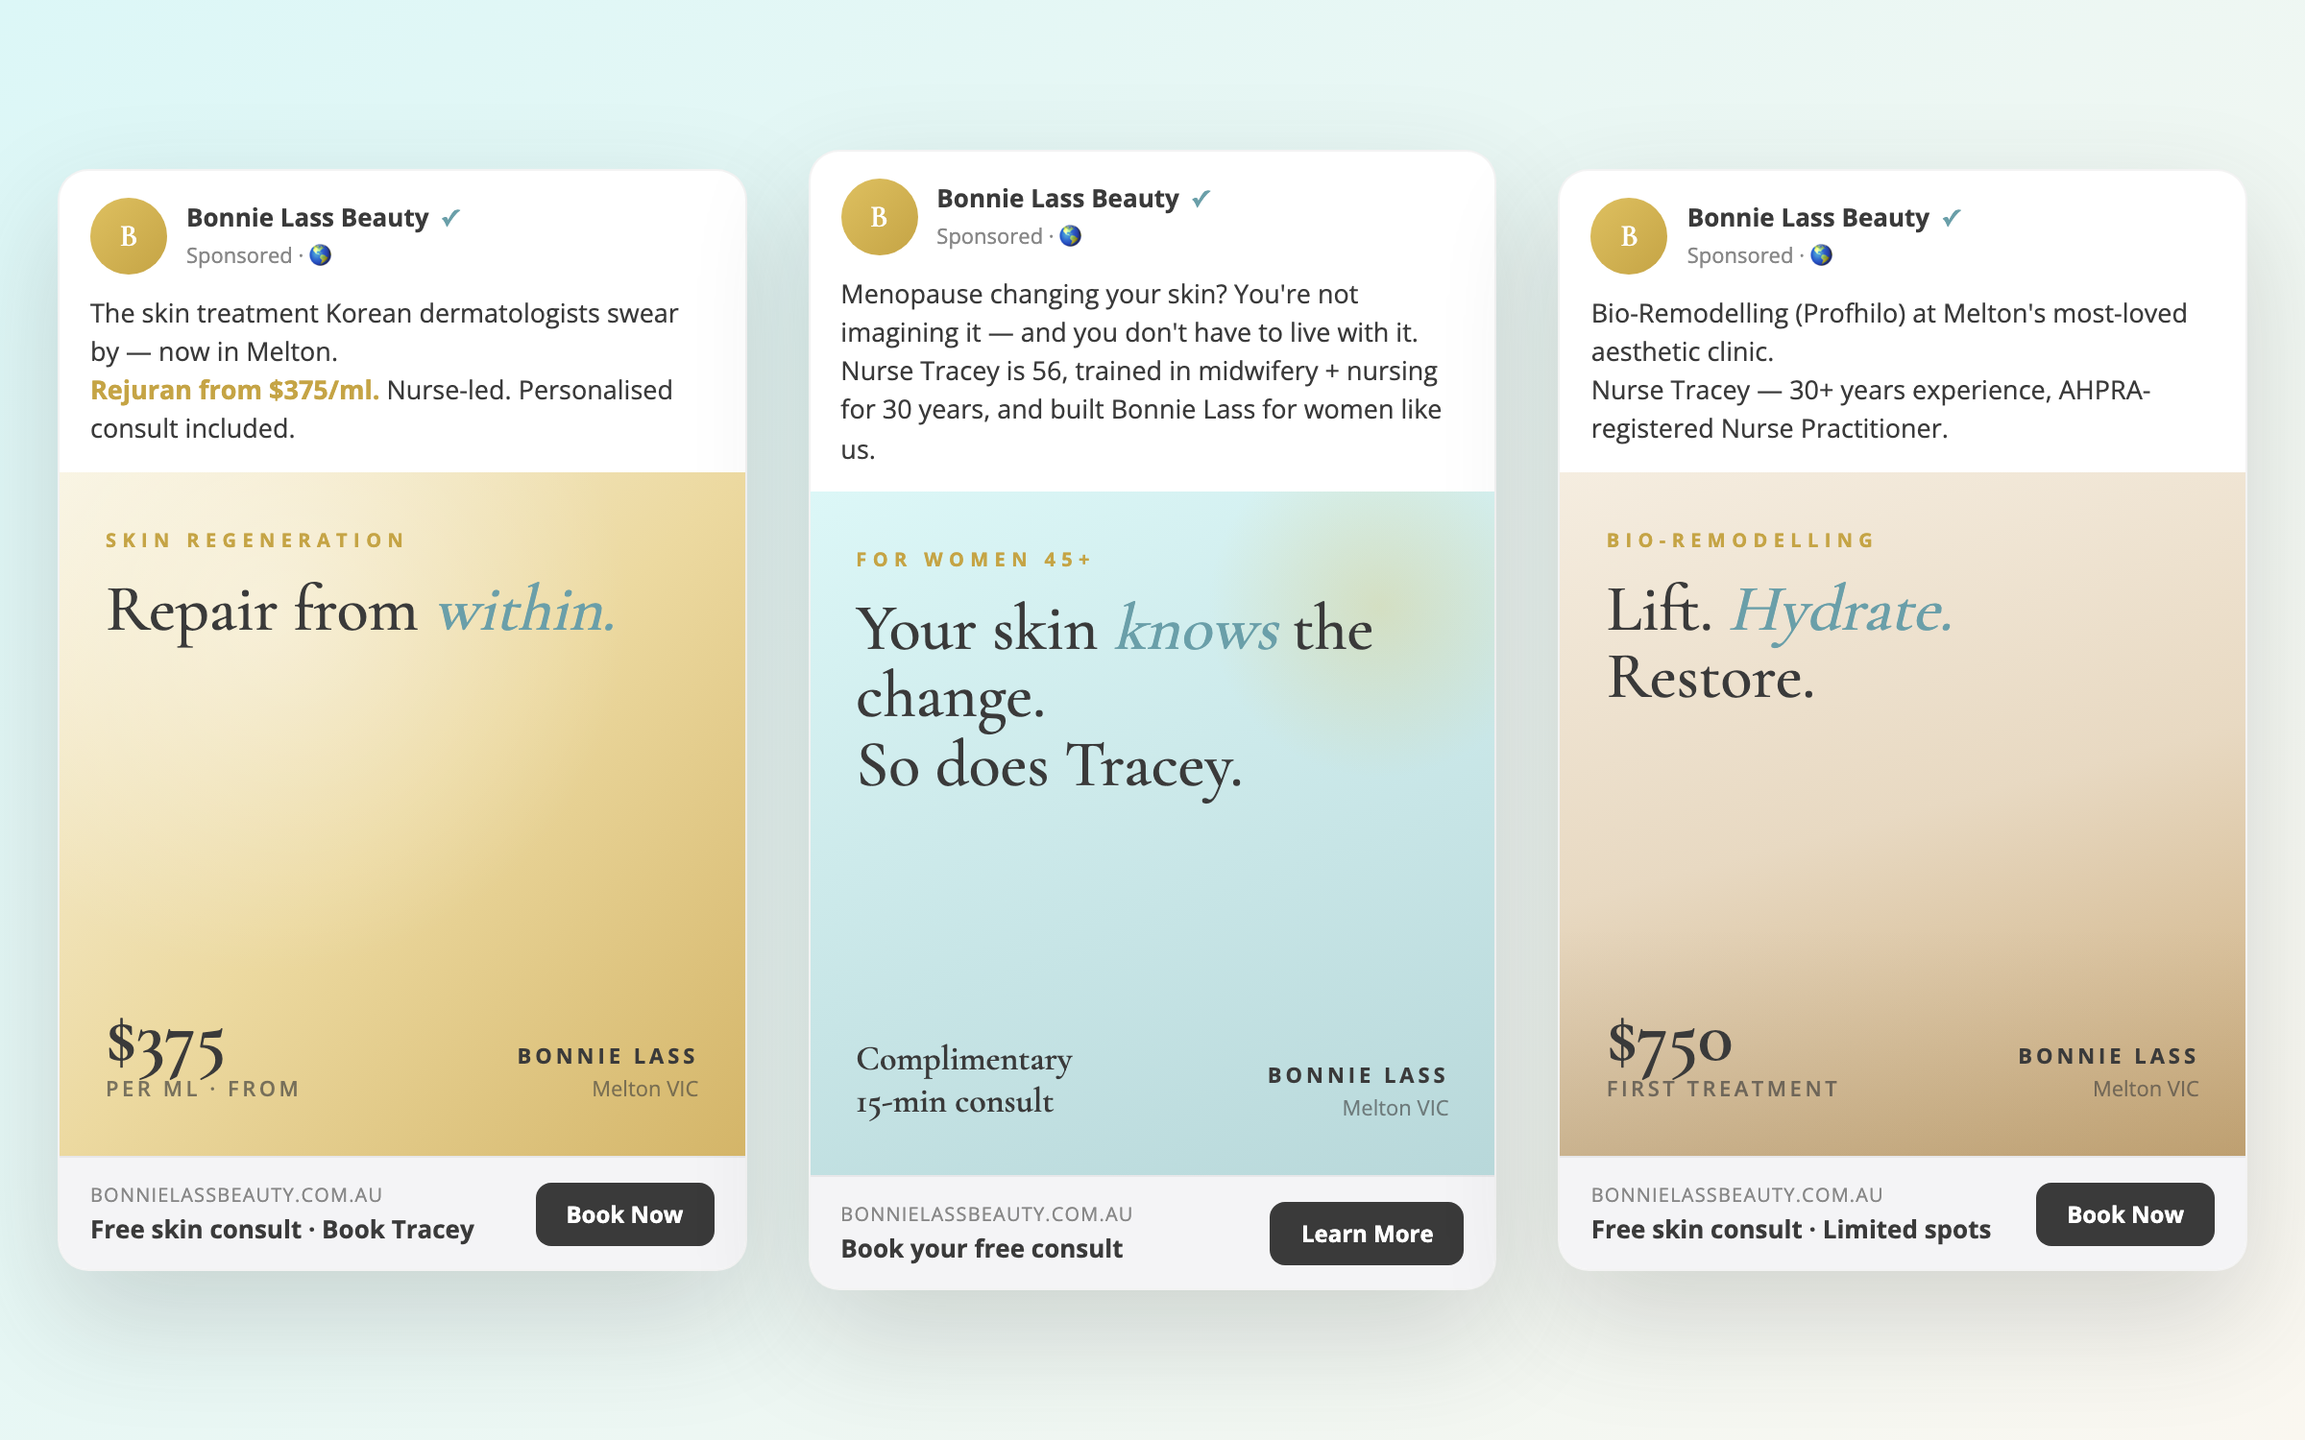
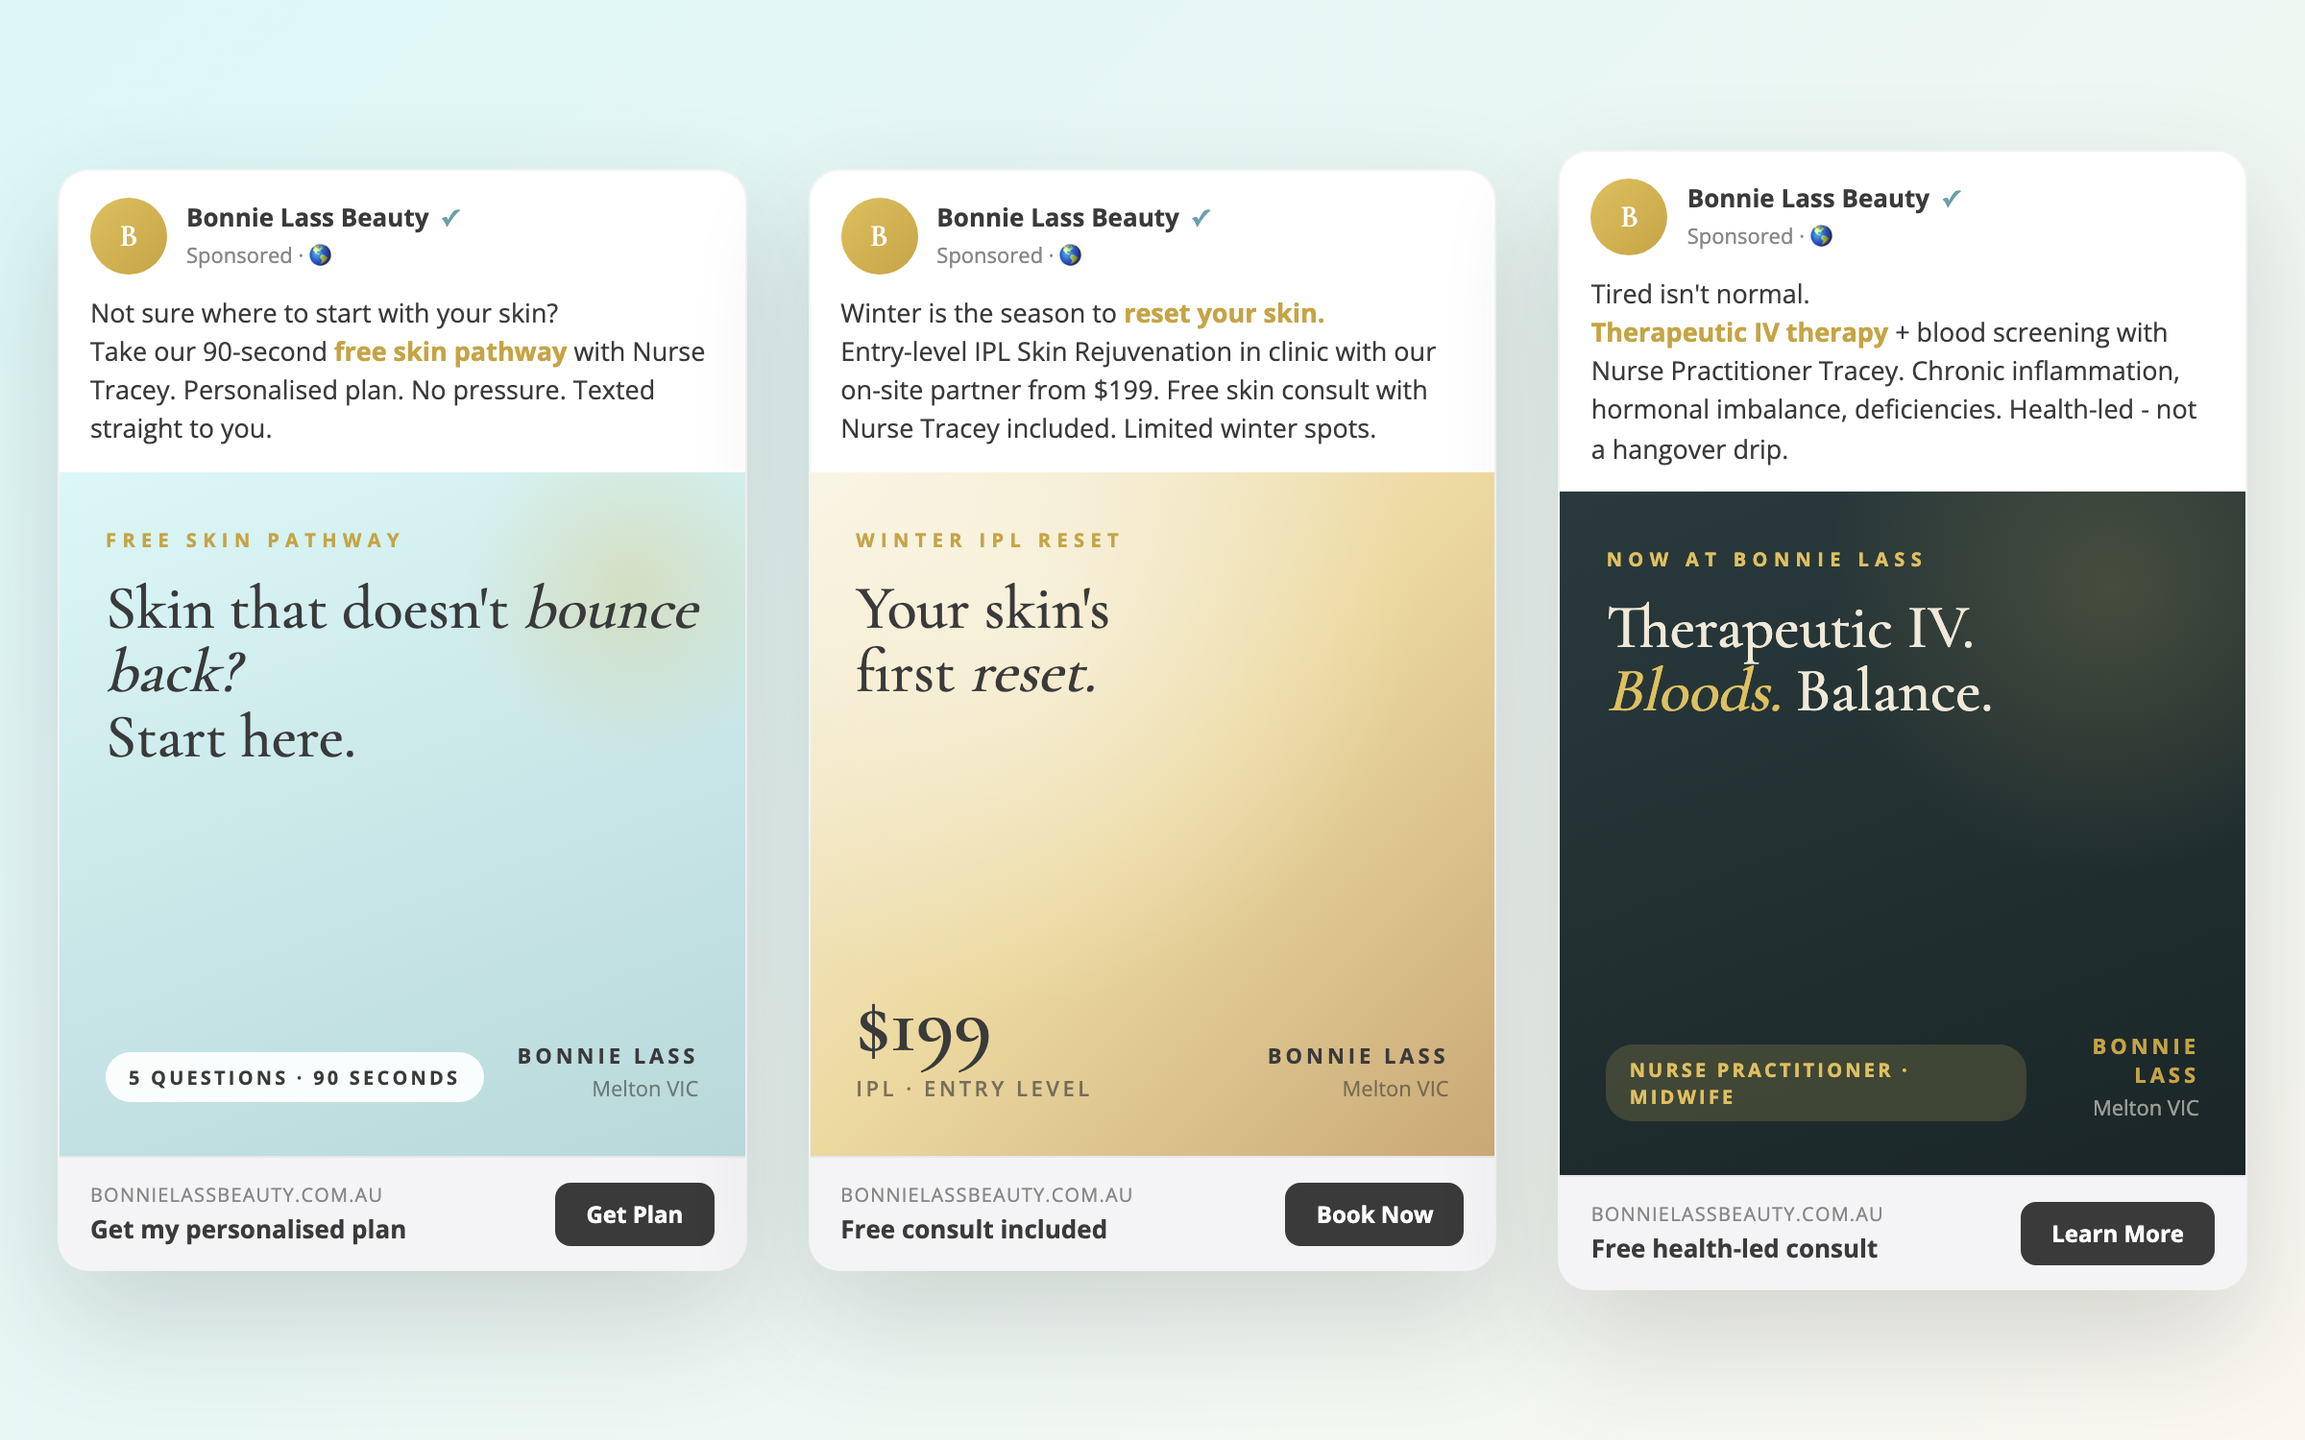
Update ads + lead gen slide to match Kelly's actual pitch: Tier 1 skin pathway, Tier 2 $199 IPL winter, Tier 3 IV therapy. Remove Option 1 pricing slides.

diff --git a/index.html b/index.html
@@ -180,24 +180,24 @@ p { font-size:0.9rem; color:var(--text-mid); font-weight:300; line-height:1.8; }
         <div class="quote"><p>"We're not even marketing. We're not even advertising."</p></div>
         <div style="display:grid; gap:0.6rem;">
           <div style="display:flex; align-items:baseline; gap:0.6rem;">
-            <span style="color:var(--peach); font-family:'Montserrat',sans-serif; font-weight:700; font-size:0.75rem; min-width:110px; flex-shrink:0;">Rejuran</span>
-            <span style="font-size:0.8rem; color:var(--text-mid);">Premium skin regeneration <span style="color:var(--teal-bright); font-weight:600;">education-first campaign</span><br>Explain the science, build trust, then book</span>
+            <span style="color:var(--peach); font-family:'Montserrat',sans-serif; font-weight:700; font-size:0.75rem; min-width:110px; flex-shrink:0;">Tier 1</span>
+            <span style="font-size:0.8rem; color:var(--text-mid);">Free <span style="color:var(--teal-bright); font-weight:600;">Skin Pathway</span> - 90-sec assessment<br>Captures lead, personalised plan, drives to consult, into nurture if not booked</span>
           </div>
           <div style="display:flex; align-items:baseline; gap:0.6rem;">
-            <span style="color:var(--peach); font-family:'Montserrat',sans-serif; font-weight:700; font-size:0.75rem; min-width:110px; flex-shrink:0;">Anti-Wrinkle</span>
-            <span style="font-size:0.8rem; color:var(--text-mid);">Winter is the perfect time <span style="color:var(--teal-bright); font-weight:600;">seasonal campaign</span><br>Target 35-55 women in Melton and surrounds</span>
+            <span style="color:var(--peach); font-family:'Montserrat',sans-serif; font-weight:700; font-size:0.75rem; min-width:110px; flex-shrink:0;">Tier 2</span>
+            <span style="font-size:0.8rem; color:var(--text-mid);">Winter Skin Reset <span style="color:var(--teal-bright); font-weight:600;">$199 IPL</span> entry-level<br>Seasonal campaign via on-site partner. Free consult with Tracey included</span>
           </div>
           <div style="display:flex; align-items:baseline; gap:0.6rem;">
-            <span style="color:var(--peach); font-family:'Montserrat',sans-serif; font-weight:700; font-size:0.75rem; min-width:110px; flex-shrink:0;">Skin Needling</span>
-            <span style="font-size:0.8rem; color:var(--text-mid);">Gateway treatment at <span style="color:var(--teal-bright); font-weight:600;">$245</span><br>Low barrier entry, upsell to skin booster combo at $395</span>
+            <span style="color:var(--peach); font-family:'Montserrat',sans-serif; font-weight:700; font-size:0.75rem; min-width:110px; flex-shrink:0;">Tier 3</span>
+            <span style="font-size:0.8rem; color:var(--text-mid);">IV Therapy &middot; Therapeutic Health <span style="color:var(--teal-bright); font-weight:600;">NEW</span><br>Blood screening, chronic inflammation, hormonal balance - Nurse Practitioner + Midwife led</span>
           </div>
           <div style="display:flex; align-items:baseline; gap:0.6rem;">
-            <span style="color:var(--peach); font-family:'Montserrat',sans-serif; font-weight:700; font-size:0.75rem; min-width:110px; flex-shrink:0;">PRP</span>
-            <span style="font-size:0.8rem; color:var(--text-mid);">Natural rejuvenation angle <span style="color:var(--teal-bright); font-weight:600;">using your own blood</span><br>Appeals to the "no filler" audience</span>
+            <span style="color:var(--peach); font-family:'Montserrat',sans-serif; font-weight:700; font-size:0.75rem; min-width:110px; flex-shrink:0;">Education</span>
+            <span style="font-size:0.8rem; color:var(--text-mid);">Premium skin regeneration <span style="color:var(--teal-bright); font-weight:600;">education-first</span><br>Explain the science, build trust, then book - winter is the season to be out of the sun</span>
           </div>
           <div style="display:flex; align-items:baseline; gap:0.6rem;">
             <span style="color:var(--peach); font-family:'Montserrat',sans-serif; font-weight:700; font-size:0.75rem; min-width:110px; flex-shrink:0;">Remarketing</span>
-            <span style="font-size:0.8rem; color:var(--text-mid);">To a free consultation - leading with your<br>30 years of clinical experience and trust</span>
+            <span style="font-size:0.8rem; color:var(--text-mid);">SMS campaigns to dropped clients, birthday <span style="color:var(--teal-bright); font-weight:600;">SMS</span> + database reactivation<br>Plus authority positioning - Tracey's 30 years, Nurse Practitioner, Midwife</span>
           </div>
         </div>
       </div>
@@ -457,88 +457,6 @@ p { font-size:0.9rem; color:var(--text-mid); font-weight:300; line-height:1.8; }
   </div>
 </section>
 
-<!-- ========== 16. FULL PACKAGE ========== -->
-<section class="slide slide-html alt">
-  <div class="dot-overlay"></div>
-  <div class="glow glow-tl"></div>
-  <div class="inner">
-    <div style="text-align:center; margin-bottom:1.5rem;">
-      <p class="label label-peach">Option One</p>
-      <h2>We Do It <span class="teal">For You</span></h2>
-      <p style="max-width:550px; margin:0 auto;">No hidden extras. No nickel-and-diming. This is what you get every single week.</p>
-    </div>
-    <div style="display:grid; grid-template-columns:1fr 1fr; gap:0.5rem 2rem; max-width:900px; margin:0 auto;">
-      <div style="display:flex; justify-content:space-between; align-items:center; padding:0.6rem 1rem; border-bottom:1px solid rgba(255,255,255,0.06);">
-        <span style="font-size:0.82rem; color:var(--text-mid); display:flex; align-items:center; gap:0.5rem;"><span style="color:var(--teal-bright);">&#10003;</span> Meta Ads strategy, creative & management</span>
-        <span style="font-family:'Montserrat',sans-serif; font-size:0.75rem; font-weight:700; color:var(--text-faint);">$350/wk</span>
-      </div>
-      <div style="display:flex; justify-content:space-between; align-items:center; padding:0.6rem 1rem; border-bottom:1px solid rgba(255,255,255,0.06);">
-        <span style="font-size:0.82rem; color:var(--text-mid); display:flex; align-items:center; gap:0.5rem;"><span style="color:var(--teal-bright);">&#10003;</span> Ad creative & video content</span>
-        <span style="font-family:'Montserrat',sans-serif; font-size:0.75rem; font-weight:700; color:var(--text-faint);">$300/wk</span>
-      </div>
-      <div style="display:flex; justify-content:space-between; align-items:center; padding:0.6rem 1rem; border-bottom:1px solid rgba(255,255,255,0.06);">
-        <span style="font-size:0.82rem; color:var(--text-mid); display:flex; align-items:center; gap:0.5rem;"><span style="color:var(--teal-bright);">&#10003;</span> Lead calling & SMS to close leads</span>
-        <span style="font-family:'Montserrat',sans-serif; font-size:0.75rem; font-weight:700; color:var(--text-faint);">$250/wk</span>
-      </div>
-      <div style="display:flex; justify-content:space-between; align-items:center; padding:0.6rem 1rem; border-bottom:1px solid rgba(255,255,255,0.06);">
-        <span style="font-size:0.82rem; color:var(--text-mid); display:flex; align-items:center; gap:0.5rem;"><span style="color:var(--teal-bright);">&#10003;</span> Bespoke CRM setup & configured</span>
-        <span style="font-family:'Montserrat',sans-serif; font-size:0.75rem; font-weight:700; color:var(--text-faint);">$200/wk</span>
-      </div>
-      <div style="display:flex; justify-content:space-between; align-items:center; padding:0.6rem 1rem; border-bottom:1px solid rgba(255,255,255,0.06);">
-        <span style="font-size:0.82rem; color:var(--text-mid); display:flex; align-items:center; gap:0.5rem;"><span style="color:var(--teal-bright);">&#10003;</span> Automated nurture sequences</span>
-        <span style="font-family:'Montserrat',sans-serif; font-size:0.75rem; font-weight:700; color:var(--text-faint);">$200/wk</span>
-      </div>
-      <div style="display:flex; justify-content:space-between; align-items:center; padding:0.6rem 1rem; border-bottom:1px solid rgba(255,255,255,0.06);">
-        <span style="font-size:0.82rem; color:var(--text-mid); display:flex; align-items:center; gap:0.5rem;"><span style="color:var(--teal-bright);">&#10003;</span> Skin assessment lead capture quiz</span>
-        <span style="font-family:'Montserrat',sans-serif; font-size:0.75rem; font-weight:700; color:var(--text-faint);">$150/wk</span>
-      </div>
-      <div style="display:flex; justify-content:space-between; align-items:center; padding:0.6rem 1rem; border-bottom:1px solid rgba(255,255,255,0.06);">
-        <span style="font-size:0.82rem; color:var(--text-mid); display:flex; align-items:center; gap:0.5rem;"><span style="color:var(--teal-bright);">&#10003;</span> After-hours automation</span>
-        <span style="font-family:'Montserrat',sans-serif; font-size:0.75rem; font-weight:700; color:var(--text-faint);">$150/wk</span>
-      </div>
-      <div style="display:flex; justify-content:space-between; align-items:center; padding:0.6rem 1rem; border-bottom:1px solid rgba(255,255,255,0.06);">
-        <span style="font-size:0.82rem; color:var(--text-mid); display:flex; align-items:center; gap:0.5rem;"><span style="color:var(--teal-bright);">&#10003;</span> Automated review collection</span>
-        <span style="font-family:'Montserrat',sans-serif; font-size:0.75rem; font-weight:700; color:var(--text-faint);">$100/wk</span>
-      </div>
-      <div style="display:flex; justify-content:space-between; align-items:center; padding:0.6rem 1rem; border-bottom:1px solid rgba(255,255,255,0.06);">
-        <span style="font-size:0.82rem; color:var(--text-mid); display:flex; align-items:center; gap:0.5rem;"><span style="color:var(--teal-bright);">&#10003;</span> Local SEO & GEO / AI search</span>
-        <span style="font-family:'Montserrat',sans-serif; font-size:0.75rem; font-weight:700; color:var(--text-faint);">$250/wk</span>
-      </div>
-      <div style="display:flex; justify-content:space-between; align-items:center; padding:0.6rem 1rem; border-bottom:1px solid rgba(255,255,255,0.06);">
-        <span style="font-size:0.82rem; color:var(--text-mid); display:flex; align-items:center; gap:0.5rem;"><span style="color:var(--teal-bright);">&#10003;</span> Reporting dashboard & monthly strategy</span>
-        <span style="font-family:'Montserrat',sans-serif; font-size:0.75rem; font-weight:700; color:var(--text-faint);">$200/wk</span>
-      </div>
-    </div>
-  </div>
-</section>
-
-<!-- ========== 17. OPTION 1 INVESTMENT ========== -->
-<section class="slide slide-html teal-bg">
-  <div class="dot-overlay"></div>
-  <div class="glow glow-center" style="opacity:0.1;"></div>
-  <div class="inner" style="text-align:center;">
-    <p class="label label-peach">Option One - The Investment</p>
-    <h2>All of This. <span class="peach">One Price.</span></h2>
-    <div style="max-width:500px; margin:1.5rem auto 0;">
-      <div style="display:flex; justify-content:space-between; align-items:center; padding:1rem 1.5rem; border-bottom:1px solid rgba(255,255,255,0.1);">
-        <span style="font-family:'Montserrat',sans-serif; font-size:0.85rem; font-weight:700; color:var(--text-mid);">Total weekly value</span>
-        <span style="font-family:'Montserrat',sans-serif; font-size:1.4rem; font-weight:900; color:var(--text-faint); text-decoration:line-through;">$2,500/wk</span>
-      </div>
-      <div style="display:flex; justify-content:space-between; align-items:center; padding:0.8rem 1.5rem; border-bottom:1px solid rgba(255,255,255,0.1);">
-        <span style="font-family:'Montserrat',sans-serif; font-size:0.85rem; font-weight:700; color:var(--text-mid);">Setup & onboarding</span>
-        <span style="font-family:'Montserrat',sans-serif; font-size:1rem; font-weight:700; color:var(--text-faint); text-decoration:line-through;">$4,997</span>
-      </div>
-      <div style="margin-top:2rem; padding:2rem; background:rgba(0,212,188,0.08); border:2px solid var(--teal-bright); border-radius:12px;">
-        <p style="font-family:'Montserrat',sans-serif; font-size:0.7rem; font-weight:700; letter-spacing:0.15em; text-transform:uppercase; color:var(--peach); margin-bottom:0.5rem;">Your Price</p>
-        <div style="font-family:'Montserrat',sans-serif; font-size:clamp(2.5rem,5vw,3.5rem); font-weight:900; color:var(--teal-bright);">$999<span style="font-size:0.4em; color:var(--text-mid); font-weight:600;">/week</span></div>
-        <p style="font-size:0.75rem; color:var(--text-faint); margin-top:0.5rem;">+ ad spend (paid directly to Meta, $30/day minimum)</p>
-        <div style="margin-top:1.2rem; display:inline-block; background:var(--peach); color:var(--dark); font-family:'Montserrat',sans-serif; font-size:0.7rem; font-weight:800; padding:0.4rem 1.2rem; border-radius:4px; text-transform:uppercase; letter-spacing:0.06em;">Setup fee waived - you save $4,997</div>
-      </div>
-      <p style="font-size:0.75rem; color:var(--text-faint); margin-top:1rem;">Month by month. No lock-in. 30 days written notice.</p>
-    </div>
-  </div>
-</section>
-
 <!-- ========== 18. OPTION 2 - WORKSHOP + WEBSITE ========== -->
 <section class="slide slide-html" style="background:radial-gradient(ellipse at center, #0E3D3A 0%, #0A2A28 60%, #071E1C 100%);">
   <div class="dot-overlay"></div>
@@ -546,9 +464,9 @@ p { font-size:0.9rem; color:var(--text-mid); font-weight:300; line-height:1.8; }
   <div class="glow glow-br"></div>
   <div class="inner">
     <div style="text-align:center; margin-bottom:2rem;">
-      <p class="label label-peach">Option Two</p>
-      <h2>Learn to Do It <span class="peach">Yourselves</span></h2>
-      <p style="max-width:600px; margin:0 auto;">You told us Phoebe and Rhiannon are ready to run this. We teach them everything in two days, and build you a website that actually represents who you are.</p>
+      <p class="label label-peach">What We Agreed</p>
+      <h2>Your <span class="peach">Path Forward</span></h2>
+      <p style="max-width:620px; margin:0 auto;">Two days in Melbourne to install your ads, your CRM, and your nurture systems with the team. Plus a full website rebuild that finally represents Bonnie Lass - compliant, holistic, IV therapy included, and yours to control.</p>
     </div>
     <div class="split-even">
       <div style="padding:2rem; background:rgba(0,180,160,0.06); border:2px solid var(--teal); border-radius:12px;">
